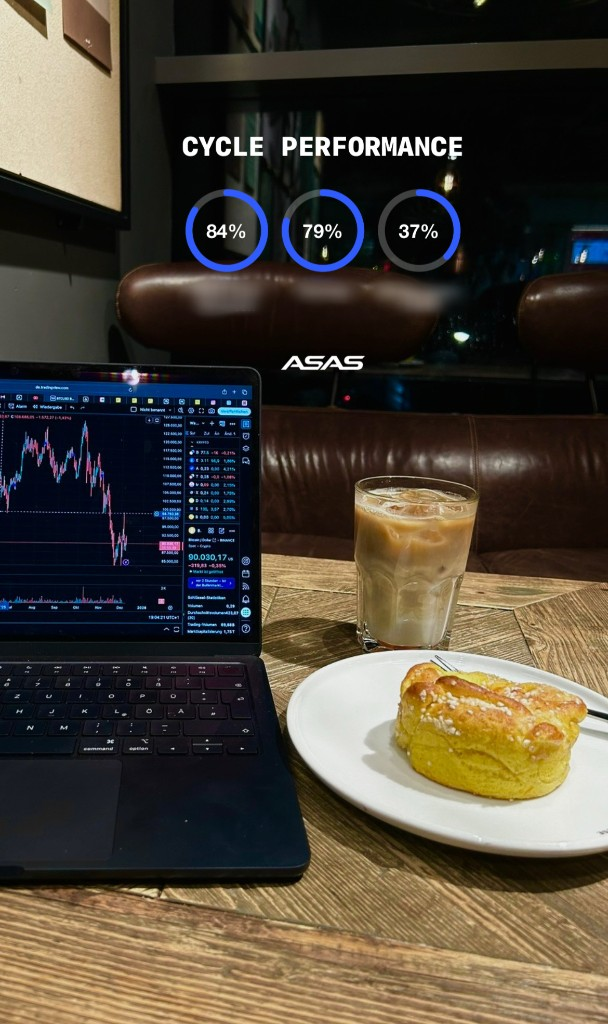
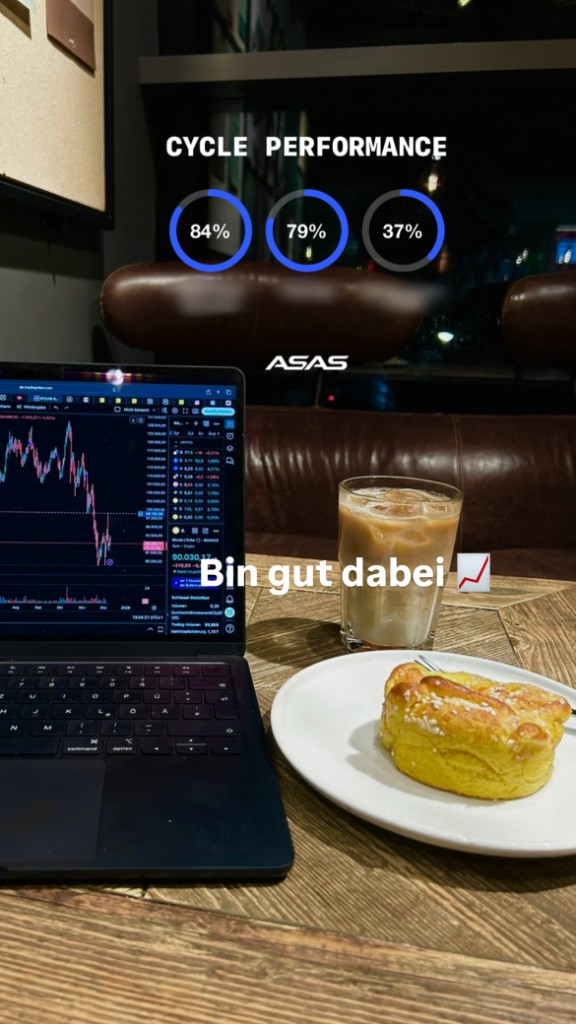
Replace Share Studio right card with Bin gut dabei cycle performance image.
Updates the right stack card asset and bumps below-hero.css cache to v=20260831-23.

diff --git a/index.html b/index.html
@@ -19,7 +19,7 @@
     <link rel="icon" href="/favicon.ico" sizes="any">
     <link rel="stylesheet" href="/site.css?v=20260831-15">
     <link rel="stylesheet" href="/hero-slides.css?v=20260831-15">
-    <link rel="stylesheet" href="/below-hero.css?v=20260831-22">
+    <link rel="stylesheet" href="/below-hero.css?v=20260831-23">
     <title>ASAS — 30 Tage, die zeigen, was du wirklich umsetzt</title>
   </head>
   <body>
